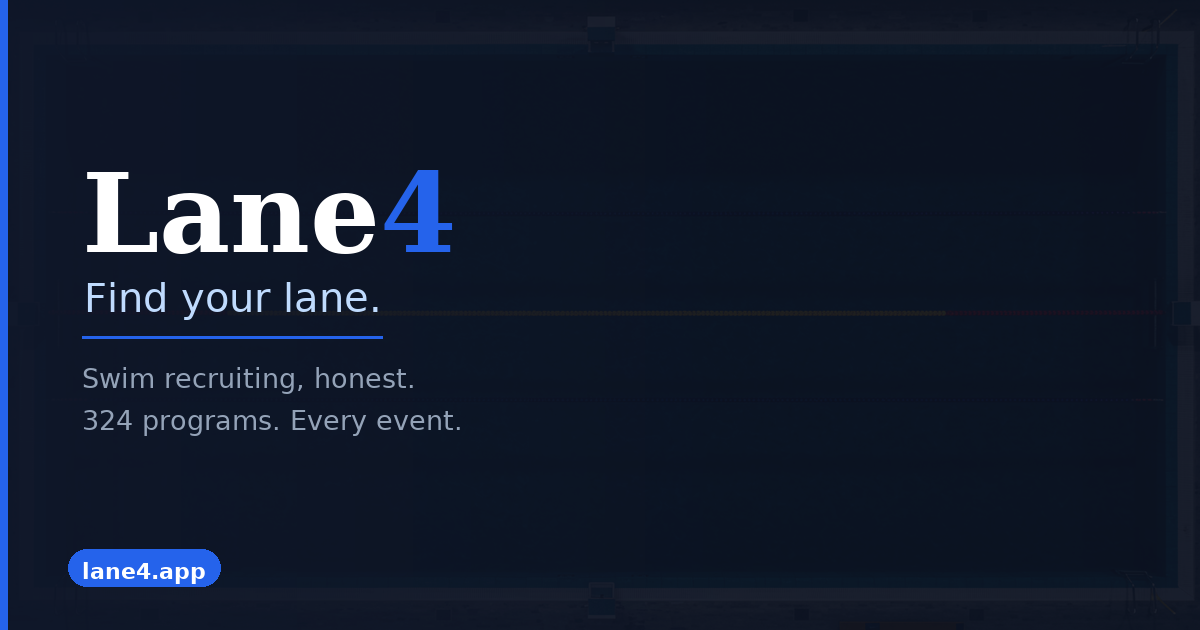
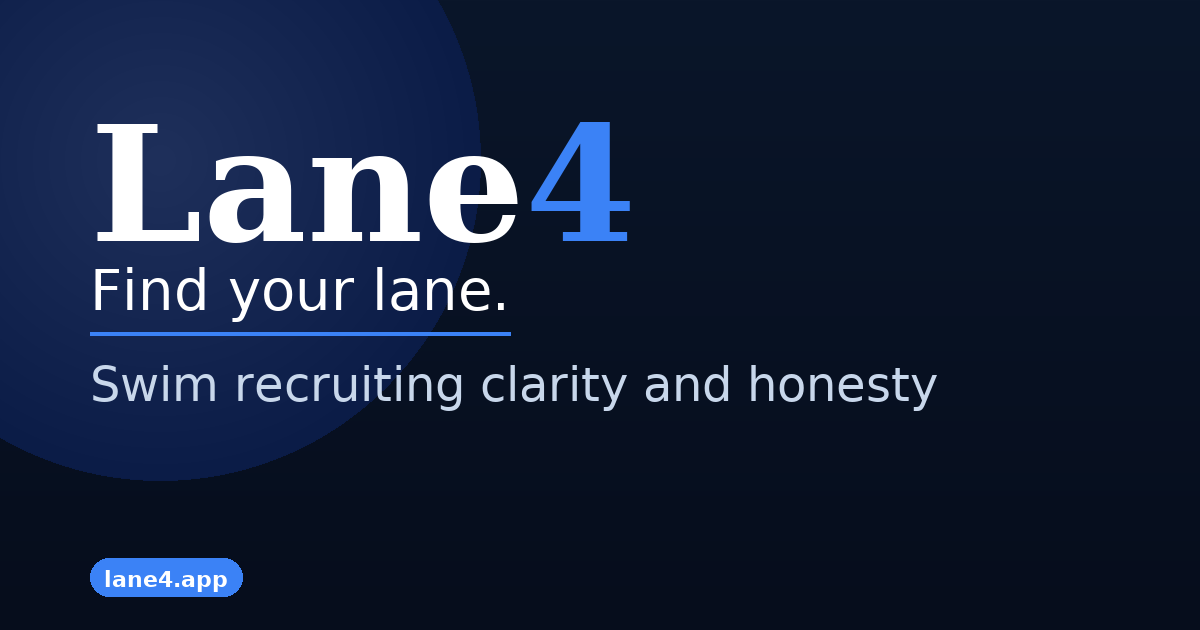
Update link preview image with new branding and styling
Regenerates the preview image using Pillow, adjusting text sizes, colors, and layout. Includes font updates and background gradient.

Replit-Commit-Author: Agent
Replit-Commit-Session-Id: 714e443f-b6b4-415b-8424-b4b788877822
Replit-Commit-Checkpoint-Type: full_checkpoint
Replit-Commit-Event-Id: 78e0a51e-ad2f-4d82-b8ac-07dd197a31cc
Replit-Commit-Screenshot-Url: https://storage.googleapis.com/screenshot-production-us-central1/bccf2611-e5a3-4245-9b3f-0672fab2df78/714e443f-b6b4-415b-8424-b4b788877822/WGse7GS
Replit-Helium-Checkpoint-Created: true

Changed region(s): [[0.0, 0.0, 0.8017, 1.0], [0.0617, 0.8444, 0.2158, 0.9651]]

diff --git a/scripts/generate_preview.py b/scripts/generate_preview.py
@@ -1,0 +1,81 @@
+from PIL import Image, ImageDraw, ImageFont
+
+W, H = 1200, 630
+
+SERIF_BOLD   = '/usr/share/fonts/truetype/dejavu/DejaVuSerif-Bold.ttf'
+SANS_REGULAR = '/usr/share/fonts/truetype/dejavu/DejaVuSans.ttf'
+SANS_BOLD    = '/usr/share/fonts/truetype/dejavu/DejaVuSans-Bold.ttf'
+
+LOGO_SZ  = 160
+FYL_SZ   = 56
+TAG_SZ   = 48
+BADGE_SZ = 22
+
+BG_TOP    = (10, 22, 42)
+BG_BOT    = (6, 13, 28)
+WHITE     = (255, 255, 255)
+WHITE_DIM = (200, 215, 235)
+BLUE      = (59, 130, 246)
+
+img  = Image.new('RGB', (W, H), BG_TOP)
+draw = ImageDraw.Draw(img)
+
+# Vertical gradient
+for y in range(H):
+    t = y / H
+    r = int(BG_TOP[0] + (BG_BOT[0] - BG_TOP[0]) * t)
+    g = int(BG_TOP[1] + (BG_BOT[1] - BG_TOP[1]) * t)
+    b = int(BG_TOP[2] + (BG_BOT[2] - BG_TOP[2]) * t)
+    draw.line([(0, y), (W, y)], fill=(r, g, b))
+
+# Subtle blue radial glow top-left
+cx, cy = 160, 160
+for r2 in range(320, 0, -1):
+    alpha = max(0, 20 - int(20 * r2 / 320))
+    color = (
+        min(255, BG_TOP[0] + alpha),
+        min(255, BG_TOP[1] + alpha + 5),
+        min(255, BG_TOP[2] + alpha + 28),
+    )
+    draw.ellipse([cx-r2, cy-r2, cx+r2, cy+r2], fill=color)
+
+LEFT   = 90
+logo_y = 90
+
+fLogo  = ImageFont.truetype(SERIF_BOLD,   LOGO_SZ)
+fFYL   = ImageFont.truetype(SANS_REGULAR, FYL_SZ)
+fTag   = ImageFont.truetype(SANS_REGULAR, TAG_SZ)
+fBadge = ImageFont.truetype(SANS_BOLD,    BADGE_SZ)
+
+# "Lane4" — "Lane" in white, "4" in blue
+lane_bbox = draw.textbbox((0, 0), 'Lane', font=fLogo)
+lane_w = lane_bbox[2] - lane_bbox[0]
+draw.text((LEFT, logo_y), 'Lane', fill=WHITE, font=fLogo)
+draw.text((LEFT + lane_w, logo_y), '4', fill=BLUE, font=fLogo)
+
+# "Find your lane."
+fyl_y = logo_y + LOGO_SZ + 8
+draw.text((LEFT, fyl_y), 'Find your lane.', fill=WHITE, font=fFYL)
+
+# Blue divider — matches width of "Find your lane."
+fyl_bbox = draw.textbbox((0, 0), 'Find your lane.', font=fFYL)
+fyl_w    = fyl_bbox[2] - fyl_bbox[0]
+line_y   = fyl_y + FYL_SZ + 18
+draw.rectangle([LEFT, line_y, LEFT + fyl_w, line_y + 3], fill=BLUE)
+
+# Tagline
+tag_y = line_y + 24
+draw.text((LEFT, tag_y), 'Swim recruiting clarity and honesty', fill=WHITE_DIM, font=fTag)
+
+# lane4.app badge
+badge_text = 'lane4.app'
+b_pad_x, b_pad_y = 14, 8
+badge_bbox = draw.textbbox((0, 0), badge_text, font=fBadge)
+bw = badge_bbox[2] - badge_bbox[0] + b_pad_x * 2
+bh = badge_bbox[3] - badge_bbox[1] + b_pad_y * 2
+bx, by = LEFT, H - 72
+draw.rounded_rectangle([bx, by, bx + bw, by + bh], radius=20, fill=BLUE)
+draw.text((bx + b_pad_x, by + b_pad_y), badge_text, fill=WHITE, font=fBadge)
+
+img.save('static/preview.png', 'PNG')
+print('Saved static/preview.png')
